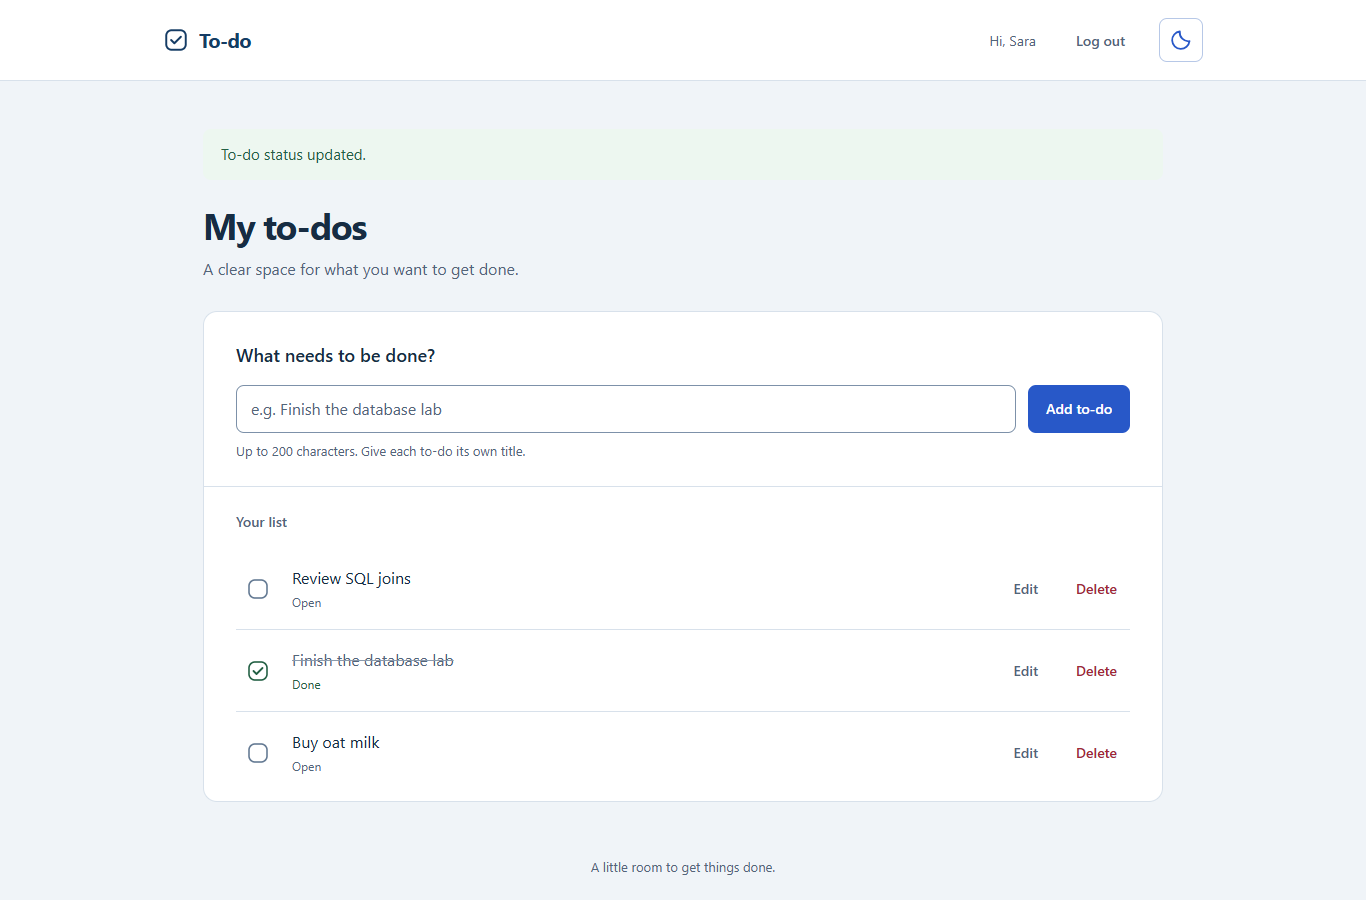
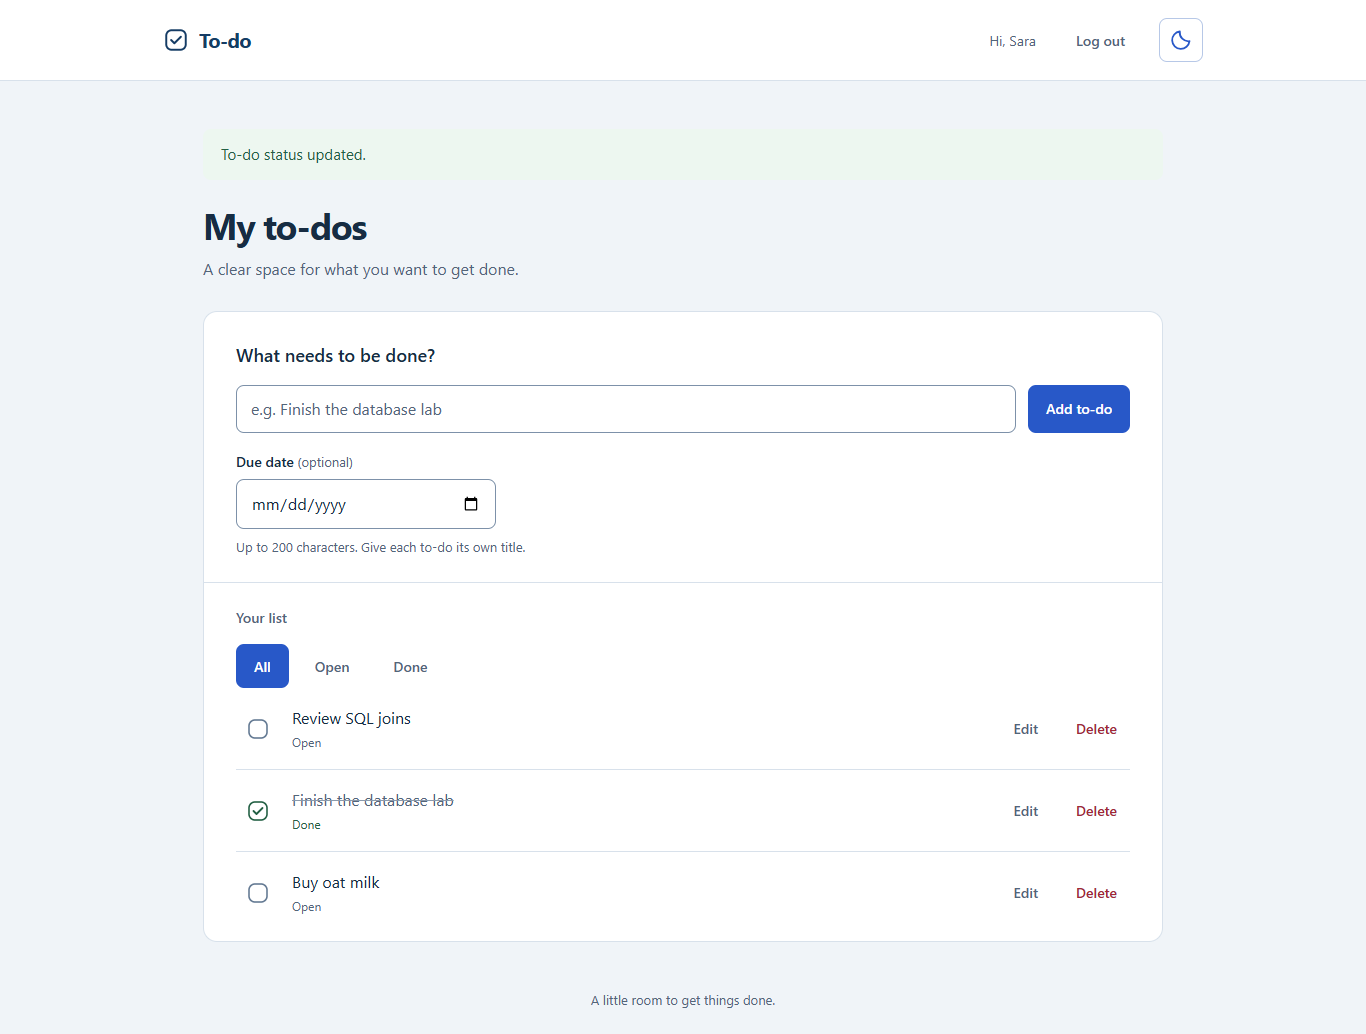
Add to-do status filters with regression tests

diff --git a/templates/todos.html b/templates/todos.html
@@ -7,7 +7,7 @@
 <div class="working-sheet">
     <section class="add-section" aria-labelledby="add-heading">
         <h2 id="add-heading">What needs to be done?</h2>
-        <form method="post" action="{{ url_for('todos.add') }}" data-title-form>
+        <form method="post" action="{{ url_for('todos.add', filter=active_filter) }}" data-title-form>
             <input type="hidden" name="csrf_token" value="{{ csrf_token }}">
             <label class="visually-hidden" for="new-title">New to-do title</label>
             <div class="add-row"><input id="new-title" name="title" type="text" value="{{ title }}" placeholder="e.g. Finish the database lab" aria-describedby="title-help new-title-error" data-title-input><button class="button button-primary" type="submit">Add to-do</button></div>
@@ -21,8 +21,17 @@
     </section>
     <section class="list-section" aria-labelledby="list-heading">
         <h2 id="list-heading">Your list</h2>
+        <nav class="todo-filters" aria-label="Filter to-dos">
+            {% for value, label in [('all', 'All'), ('open', 'Open'), ('done', 'Done')] %}
+                <a class="button {{ 'button-primary' if active_filter == value else 'button-quiet' }}" href="{{ url_for('todos.index', filter=value) }}"{% if active_filter == value %} aria-current="page"{% endif %}>{{ label }}</a>
+            {% endfor %}
+        </nav>
         {% if not todos %}
-            <div class="empty-state"><h3>Your list is empty</h3><p>Add a to-do above to get started.</p></div>
+            <div class="empty-state">
+                {% if not has_todos %}<h3>Your list is empty</h3><p>Add a to-do above to get started.</p>
+                {% elif active_filter == 'open' %}<h3>No open to-dos</h3><p>All your to-dos are done. Add a new one above or view All.</p>
+                {% else %}<h3>No done to-dos yet</h3><p>Mark a to-do done and it will appear here.</p>{% endif %}
+            </div>
         {% else %}
             <ul class="todo-list">
                 {% for todo in todos %}
@@ -30,10 +39,10 @@
                         {% if delete_id == todo.todo_id %}
                             <div class="delete-confirmation">
                                 <h3>Delete this to-do?</h3><p class="todo-title">{{ todo.title }}</p><p class="field-help">This cannot be undone.</p>
-                                <div class="edit-actions"><form method="post" action="{{ url_for('todos.delete', todo_id=todo.todo_id) }}"><input type="hidden" name="csrf_token" value="{{ csrf_token }}"><button class="button button-danger" type="submit">Delete to-do</button></form><a class="button button-quiet" href="{{ url_for('todos.index') }}">Cancel</a></div>
+                                <div class="edit-actions"><form method="post" action="{{ url_for('todos.delete', todo_id=todo.todo_id, filter=active_filter) }}"><input type="hidden" name="csrf_token" value="{{ csrf_token }}"><button class="button button-danger" type="submit">Delete to-do</button></form><a class="button button-quiet" href="{{ url_for('todos.index', filter=active_filter) }}">Cancel</a></div>
                             </div>
                         {% elif edit_id == todo.todo_id %}
-                            <form class="edit-form" method="post" action="{{ url_for('todos.edit', todo_id=todo.todo_id) }}" data-title-form>
+                            <form class="edit-form" method="post" action="{{ url_for('todos.edit', todo_id=todo.todo_id, filter=active_filter) }}" data-title-form>
                                 <input type="hidden" name="csrf_token" value="{{ csrf_token }}">
                                 <label for="edit-title-{{ todo.todo_id }}">Edit title</label>
                                 <input id="edit-title-{{ todo.todo_id }}" name="title" type="text" value="{{ edit_title }}" aria-describedby="edit-error-{{ todo.todo_id }}" data-title-input autofocus>
@@ -42,10 +51,10 @@
                                     <input id="edit-due-date-{{ todo.todo_id }}" name="due_date" type="date" min="1000-01-01" max="9999-12-31" value="{{ edit_due_date }}">
                                 </div>
                                 <p id="edit-error-{{ todo.todo_id }}" class="inline-error" data-title-error role="alert"></p>
-                                <div class="edit-actions"><button class="button button-primary" type="submit">Save changes</button><a class="button button-quiet" href="{{ url_for('todos.index') }}">Cancel</a></div>
+                                <div class="edit-actions"><button class="button button-primary" type="submit">Save changes</button><a class="button button-quiet" href="{{ url_for('todos.index', filter=active_filter) }}">Cancel</a></div>
                             </form>
                         {% else %}
-                            <form class="status-form" method="post" action="{{ url_for('todos.set_done', todo_id=todo.todo_id) }}">
+                            <form class="status-form" method="post" action="{{ url_for('todos.set_done', todo_id=todo.todo_id, filter=active_filter) }}">
                                 <input type="hidden" name="csrf_token" value="{{ csrf_token }}">
                                 <input type="hidden" name="status" value="{{ 'open' if todo.is_done else 'done' }}">
                                 <button class="status-button" type="submit" aria-label="{{ 'Mark open' if todo.is_done else 'Mark done' }}" title="{{ 'Mark open' if todo.is_done else 'Mark done' }}">
@@ -54,9 +63,9 @@
                             </form>
                             <div class="todo-content"><span class="todo-title">{{ todo.title }}</span><span class="task-state">{{ 'Done' if todo.is_done else 'Open' }}</span>{% if todo.due_date %}<span class="task-due-date">Due {{ todo.due_date.strftime('%b %d, %Y') }}</span>{% endif %}</div>
                             <div class="todo-actions">
-                                <a class="button button-quiet" href="{{ url_for('todos.index', edit=todo.todo_id) }}" data-edit-link="{{ todo.todo_id }}">Edit</a>
-                                <form class="delete-with-js" method="post" action="{{ url_for('todos.delete', todo_id=todo.todo_id) }}" data-delete-form><input type="hidden" name="csrf_token" value="{{ csrf_token }}"><button class="button button-delete" type="submit">Delete</button></form>
-                                <noscript><a class="button button-delete" href="{{ url_for('todos.index', delete=todo.todo_id) }}">Delete</a></noscript>
+                                <a class="button button-quiet" href="{{ url_for('todos.index', edit=todo.todo_id, filter=active_filter) }}" data-edit-link="{{ todo.todo_id }}">Edit</a>
+                                <form class="delete-with-js" method="post" action="{{ url_for('todos.delete', todo_id=todo.todo_id, filter=active_filter) }}" data-delete-form><input type="hidden" name="csrf_token" value="{{ csrf_token }}"><button class="button button-delete" type="submit">Delete</button></form>
+                                <noscript><a class="button button-delete" href="{{ url_for('todos.index', delete=todo.todo_id, filter=active_filter) }}">Delete</a></noscript>
                             </div>
                         {% endif %}
                     </li>

diff --git a/tests/browser.test.js b/tests/browser.test.js
@@ -219,6 +219,71 @@ async function run(browser, enabled) {
             await a.setViewportSize({width:1366,height:900});
             await shot(a, "03-todos-desktop.png");
         }
+        // Exercise the same server-rendered controls with and without JavaScript.
+        const filters = a.getByRole("navigation", {name:"Filter to-dos"});
+        const selectFilter = async (label, value) => {
+            await filters.getByRole("link", {name:label, exact:true}).click();
+            await a.waitForURL(base + `/todos?filter=${value}`);
+            assert.equal(await filters.getByRole("link", {name:label, exact:true}).getAttribute("aria-current"), "page");
+        };
+        const currentFilter = () => assert.equal(new URL(a.url()).searchParams.get("filter"), "open");
+        await selectFilter("All", "all");
+        assert.equal(await a.locator(".todo-item").count(), 3);
+        await selectFilter("Done", "done");
+        assert.equal(await a.locator(".todo-item").count(), 1);
+        assert.ok(await lab.isVisible());
+        if (enabled) await checkThemes(a, "done filter");
+        else await checkLayout(a, "done filter without JS", 360);
+        await lab.getByRole("button", {name:"Mark open",exact:true}).click();
+        await a.waitForLoadState("load");
+        assert.equal(new URL(a.url()).searchParams.get("filter"), "done");
+        assert.equal(await a.locator(".todo-item").count(), 0);
+        assert.ok(await a.getByText("No done to-dos yet", {exact:true}).isVisible());
+        await selectFilter("Open", "open");
+        assert.equal(await a.locator(".todo-item").count(), 3);
+        if (enabled) await checkThemes(a, "open filter");
+        else await checkLayout(a, "open filter without JS", 360);
+        await a.locator("#new-title").fill("Filter browser task");
+        await a.getByRole("button", {name:"Add to-do",exact:true}).click();
+        await a.waitForLoadState("load");
+        currentFilter();
+        const filterRow = a.locator(".todo-item").filter({hasText:"Filter browser task"});
+        await filterRow.getByRole("link", {name:"Edit",exact:true}).click();
+        await a.getByLabel("Edit title", {exact:true}).fill("");
+        await a.getByRole("button", {name:"Save changes",exact:true}).click();
+        assert.ok(await a.getByText("Title is required", {exact:true}).isVisible());
+        currentFilter();
+        await a.getByRole("link", {name:"Cancel",exact:true}).click();
+        currentFilter();
+        await filterRow.getByRole("link", {name:"Edit",exact:true}).click();
+        await a.getByLabel("Edit title", {exact:true}).fill("Filter browser task edited");
+        await a.getByRole("button", {name:"Save changes",exact:true}).click();
+        await a.waitForLoadState("load");
+        currentFilter();
+        if (enabled) {
+            a.once("dialog", dialog => dialog.dismiss());
+            await filterRow.getByRole("button", {name:"Delete",exact:true}).click();
+            assert.ok(await filterRow.isVisible());
+            currentFilter();
+            a.once("dialog", dialog => dialog.accept());
+            await filterRow.getByRole("button", {name:"Delete",exact:true}).click();
+        } else {
+            await filterRow.getByRole("link", {name:"Delete",exact:true}).click();
+            currentFilter();
+            assert.ok(await a.getByRole("heading", {name:"Delete this to-do?",exact:true}).isVisible());
+            await a.getByRole("link", {name:"Cancel",exact:true}).click();
+            currentFilter();
+            await filterRow.getByRole("link", {name:"Delete",exact:true}).click();
+            await a.getByRole("button", {name:"Delete to-do",exact:true}).click();
+        }
+        await a.waitForLoadState("load");
+        currentFilter();
+        assert.equal(await filterRow.count(), 0);
+        await lab.getByRole("button", {name:"Mark done",exact:true}).click();
+        await a.waitForLoadState("load");
+        currentFilter();
+        assert.equal(await lab.count(), 0);
+        await selectFilter("All", "all");
         await lab.getByRole("button", {name:"Mark open",exact:true}).click();
         await a.waitForLoadState("load");
         assert.equal(await a.locator(".todo-item.is-done").count(), 0);

diff --git a/static/css/style.css b/static/css/style.css
@@ -164,6 +164,7 @@ label { display: block; margin-bottom: 7px; font-size: .875rem; font-weight: 600
 .edit-form { width: 100%; padding: 4px 0 12px; animation: edit-reveal 180ms cubic-bezier(.16, 1, .3, 1); }
 .edit-actions { display: flex; align-items: center; gap: 12px; margin-top: 16px; }
 @keyframes edit-reveal { from { clip-path: inset(0 0 12%); } to { clip-path: inset(0); } }
+.todo-filters { display: flex; flex-wrap: wrap; gap: 8px; margin-top: 16px; }
 .empty-state { padding: 34px 0 50px; }
 .empty-state h3 { font-size: 1.125rem; font-weight: 600; }
 .empty-state p { color: var(--muted); margin-top: 8px; font-size: .9375rem; }

diff --git a/tests/integration.py b/tests/integration.py
@@ -117,6 +117,84 @@ class Integration(unittest.TestCase):
             )
             return cursor.fetchall()
 
+    def test_filters_privacy_defaults_and_empty_states(self):
+        aid = self.register(self.a, self.a_email)
+        bid = self.register(self.b, self.b_email)
+        for client, uid, prefix in ((self.a, aid, "Mine"), (self.b, bid, "Private")):
+            self.post(client, "/todos", {"title": prefix + " open"})
+            self.post(client, "/todos", {"title": prefix + " done"})
+            self.post(client, f"/todos/{self.rows(uid)[0]['todo_id']}/done", {"status": "done"})
+        for client, own, other in ((self.a, "Mine", "Private"), (self.b, "Private", "Mine")):
+            for query, expected in (("", "all"), ("?filter=invalid", "all"),
+                                    ("?filter=", "all"), ("?filter=done%27%20OR%201=1", "all"),
+                                    ("?filter=all", "all"), ("?filter=open", "open"), ("?filter=done", "done")):
+                page = client.get("/todos" + query).get_data(as_text=True)
+                self.assertIn(f'filter={expected}" aria-current="page"', page)
+                self.assertNotIn(other + " open", page)
+                self.assertNotIn(other + " done", page)
+                for state in ("open", "done"):
+                    self.assertEqual(own + " " + state in page, expected in ("all", state))
+                if expected == "all":
+                    self.assertLess(page.index(own + " done"), page.index(own + " open"))
+        for row in self.rows(aid):
+            self.post(self.a, f"/todos/{row['todo_id']}/done?filter=open", {"status": "done"})
+        self.assertIn(b"No open to-dos", self.a.get("/todos?filter=open").data)
+        for row in self.rows(aid):
+            self.post(self.a, f"/todos/{row['todo_id']}/done?filter=done", {"status": "open"})
+        self.assertIn(b"No done to-dos yet", self.a.get("/todos?filter=done").data)
+        for row in self.rows(aid):
+            self.post(self.a, f"/todos/{row['todo_id']}/delete")
+        for value in ("all", "open", "done"):
+            page = self.a.get("/todos?filter=" + value).data
+            self.assertIn(b"Your list is empty", page)
+            self.assertIn(b"Add a to-do above to get started.", page)
+
+    def test_filters_preserved_through_forms_and_status_changes(self):
+        aid = self.register(self.a, self.a_email)
+        bid = self.register(self.b, self.b_email)
+        self.post(self.b, "/todos", {"title": "Other user's task"})
+        private_id = self.rows(bid)[0]["todo_id"]
+        for value in ("all", "open", "done"):
+            query = "?filter=" + value
+            expected_url = "/todos" + (query if value != "all" else "")
+            response = self.post(self.a, "/todos" + query, {"title": "Filter task"}, follow=False)
+            self.assertEqual(response.location, expected_url)
+            todo_id = self.rows(aid)[0]["todo_id"]
+            if value == "done":
+                self.post(self.a, f"/todos/{todo_id}/done" + query, {"status": "done"})
+            self.post(self.a, "/todos" + query, {"title": "Duplicate fixture"})
+            for action in ("edit", "delete"):
+                page = self.a.get(f"/todos{query}&{action}={todo_id}").get_data(as_text=True)
+                self.assertIn(f'href="/todos{query}">Cancel</a>', page)
+                self.assertIn(f'action="/todos/{todo_id}/{action}{query}"', page)
+                self.assertEqual(self.a.get(f"/todos{query}&{action}={private_id}").status_code, 404)
+            for path in ("/todos", f"/todos/{todo_id}/edit"):
+                for data in ({"title": " "}, {"title": "x" * 201},
+                             {"title": "Filter task", "due_date": "2027-02-29"},
+                             {"title": "Duplicate fixture"}):
+                    response = self.post(self.a, path + query, data)
+                    self.assertEqual(response.status_code, 400)
+                    page = response.get_data(as_text=True)
+                    self.assertIn(f'filter={value}" aria-current="page"', page)
+                    self.assertIn(f'action="{path}{query}"', page)
+            response = self.post(self.a, f"/todos/{todo_id}/edit" + query,
+                                 {"title": "Renamed task", "due_date": "2028-02-29"}, follow=False)
+            self.assertEqual(response.location, expected_url)
+            self.assertEqual(next(row for row in self.rows(aid) if row["todo_id"] == todo_id)["due_date"].isoformat(), "2028-02-29")
+            response = self.post(self.a, f"/todos/{todo_id}/done" + query,
+                                 {"status": "open" if value == "done" else "done"})
+            self.assertEqual(response.request.path + ("?" + response.request.query_string.decode() if response.request.query_string else ""), expected_url)
+            if value != "all":
+                self.assertNotIn(b"Renamed task", response.data)
+            for status in ("invalid", "done", "open"):
+                response = self.post(self.a, f"/todos/{todo_id}/done" + query, {"status": status}, follow=False)
+                self.assertEqual(response.location, expected_url)
+            response = self.post(self.a, f"/todos/{todo_id}/delete" + query, follow=False)
+            self.assertEqual(response.location, expected_url)
+            self.assertFalse(any(row["todo_id"] == todo_id for row in self.rows(aid)))
+            for row in self.rows(aid):
+                self.post(self.a, f"/todos/{row['todo_id']}/delete")
+
     def test_auth_security_and_routing(self):
         self.assertEqual(self.a.get("/todos").status_code, 302)
         response = self.post(self.a, "/register", {})

diff --git a/todos.py b/todos.py
@@ -58,15 +58,27 @@ def _todo_id(raw_id):
     return value
 
 
-def _get_user_todos(user_id):
+def _active_filter():
+    value = request.args.get("filter", "all")
+    return value if value in ("all", "open", "done") else "all"
+
+
+def _list_url():
+    active_filter = _active_filter()
+    return url_for("todos.index", filter=active_filter if active_filter != "all" else None)
+
+
+def _get_user_todos(user_id, active_filter="all"):
     connection = get_connection()
     try:
         with connection.cursor() as cursor:
-            cursor.execute(
-                """SELECT todo_id, title, due_date, is_done, created_at
-                    FROM todos WHERE user_id = %s ORDER BY todo_id DESC""",
-                (user_id,),
-            )
+            sql = """SELECT todo_id, title, due_date, is_done, created_at
+                     FROM todos WHERE user_id = %s"""
+            parameters = (user_id,)
+            if active_filter in ("open", "done"):
+                sql += " AND is_done = %s"
+                parameters += (1 if active_filter == "done" else 0,)
+            cursor.execute(sql + " ORDER BY todo_id DESC", parameters)
             return cursor.fetchall()
     finally:
         connection.close()
@@ -83,8 +95,13 @@ def _render_list(
     delete_id=None,
     status=200,
 ):
+    active_filter = _active_filter()
+    has_todos = False
     try:
-        user_todos = _get_user_todos(user_id)
+        user_todos = _get_user_todos(user_id, active_filter)
+        has_todos = bool(user_todos)
+        if not has_todos and active_filter != "all":
+            has_todos = bool(_get_user_todos(user_id))
         if delete_id is not None and not any(
             todo["todo_id"] == delete_id for todo in user_todos
         ):
@@ -108,6 +125,8 @@ def _render_list(
     return render_template(
         "todos.html",
         todos=user_todos,
+        active_filter=active_filter,
+        has_todos=has_todos,
         title=title,
         due_date=due_date,
         edit_id=edit_id,
@@ -179,13 +198,13 @@ def add():
                 user_id, title=title, due_date=due_date_text, status=400
             )
         flash("Your to-do could not be added. Please try again.", "error")
-        return redirect(url_for("todos.index"))
+        return redirect(_list_url())
     finally:
         if connection:
             connection.close()
 
     flash("To-do added.", "success")
-    return redirect(url_for("todos.index"))
+    return redirect(_list_url())
 
 
 @todos.post("/todos/<todo_id>/edit")
@@ -249,7 +268,7 @@ def edit(todo_id):
                 status=400,
             )
         flash("Your to-do could not be updated. Please try again.", "error")
-        return redirect(url_for("todos.index"))
+        return redirect(_list_url())
     finally:
         if connection:
             connection.close()
@@ -258,7 +277,7 @@ def edit(todo_id):
         "To-do updated." if changed else "To-do not found.",
         "success" if changed else "error",
     )
-    return redirect(url_for("todos.index"))
+    return redirect(_list_url())
 
 
 @todos.post("/todos/<todo_id>/done")
@@ -271,7 +290,7 @@ def set_done(todo_id):
     valid_statuses = {"done": 1, "open": 0}
     if value not in valid_statuses:
         flash("Choose a valid done or open status.", "error")
-        return redirect(url_for("todos.index"))
+        return redirect(_list_url())
 
     connection = None
     try:
@@ -287,7 +306,7 @@ def set_done(todo_id):
         if connection:
             connection.rollback()
         flash("Your to-do status could not be changed. Please try again.", "error")
-        return redirect(url_for("todos.index"))
+        return redirect(_list_url())
     finally:
         if connection:
             connection.close()
@@ -296,7 +315,7 @@ def set_done(todo_id):
         "To-do status updated." if changed else "To-do not found.",
         "success" if changed else "error",
     )
-    return redirect(url_for("todos.index"))
+    return redirect(_list_url())
 
 
 @todos.post("/todos/<todo_id>/delete")
@@ -320,7 +339,7 @@ def delete(todo_id):
         if connection:
             connection.rollback()
         flash("Your to-do could not be deleted. Please try again.", "error")
-        return redirect(url_for("todos.index"))
+        return redirect(_list_url())
     finally:
         if connection:
             connection.close()
@@ -329,4 +348,4 @@ def delete(todo_id):
         "To-do deleted." if changed else "To-do not found.",
         "success" if changed else "error",
     )
-    return redirect(url_for("todos.index"))
+    return redirect(_list_url())

diff --git a/README.md b/README.md
@@ -152,7 +152,9 @@ The app prevents duplicate titles in the same user's list. Another user can use 
 
 ### Bonus
 
-We added **dark mode**, **automated tests**, and optional **due dates for tasks**. The assignment caps the bonus at +1.
+We added **dark mode**, **automated tests**, optional **due dates for tasks**, and **All / Open / Done filters**. The assignment caps the bonus at +1.
+
+Use All, Open or Done above the list to choose which tasks to show. All is the default. The filter stays selected when you add, edit, change a task's status or delete it, and filtering also works with JavaScript turned off.
 
 Click the moon in light mode to switch to dark mode, or the sun to switch back. Your browser remembers the choice. With JavaScript disabled, the site stays in light mode. If local storage is blocked, the switch still works on the current page but the choice isn't saved.
 
